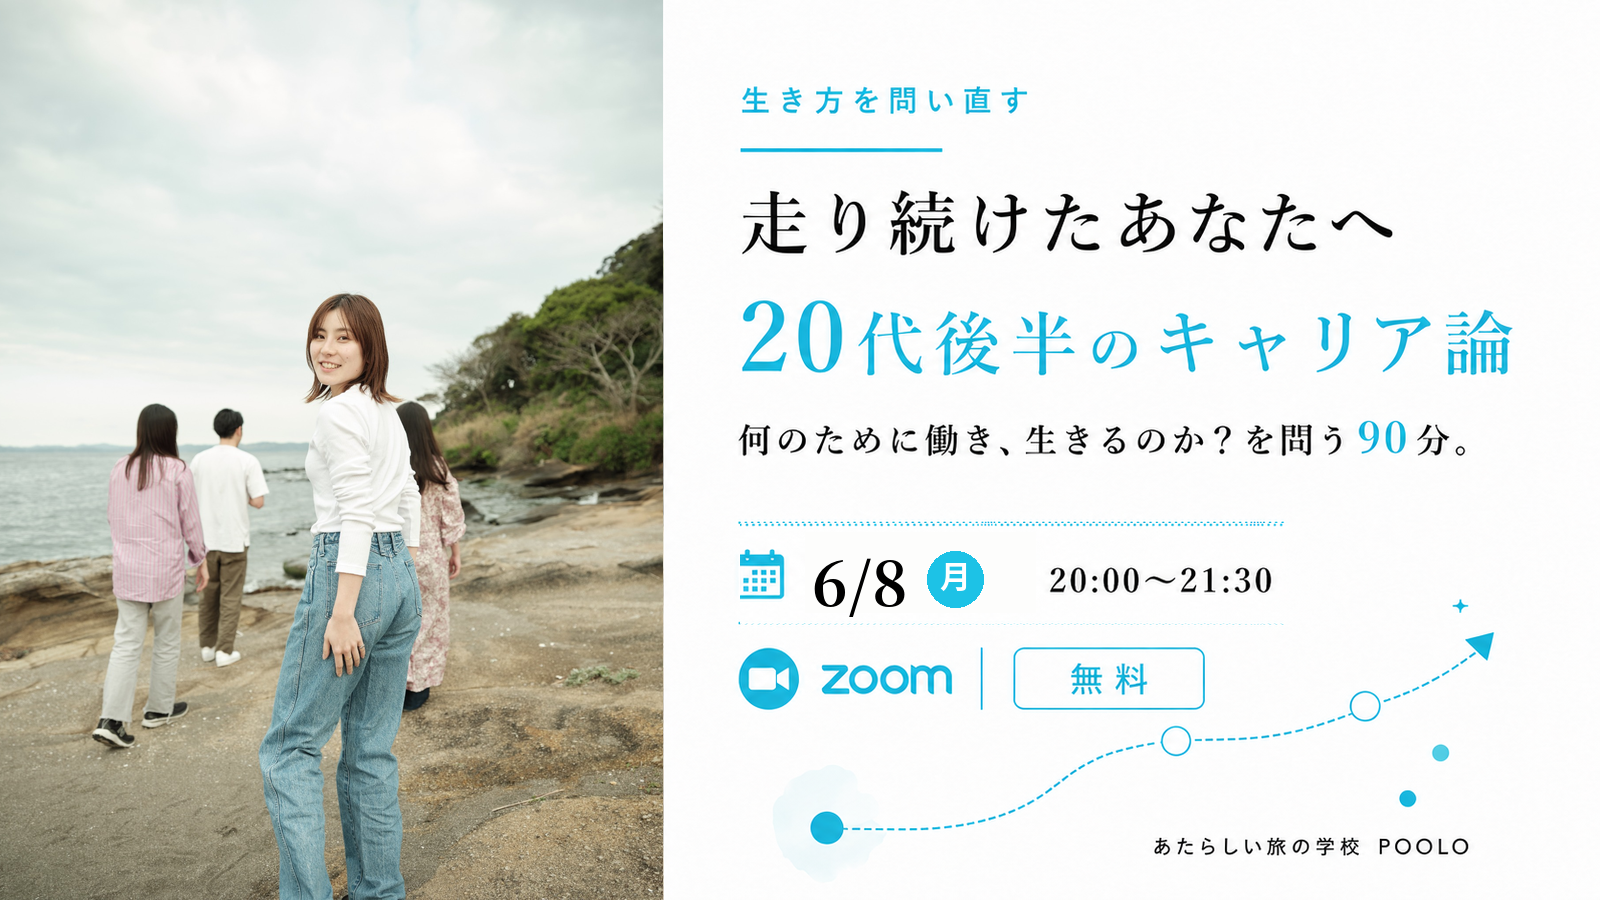
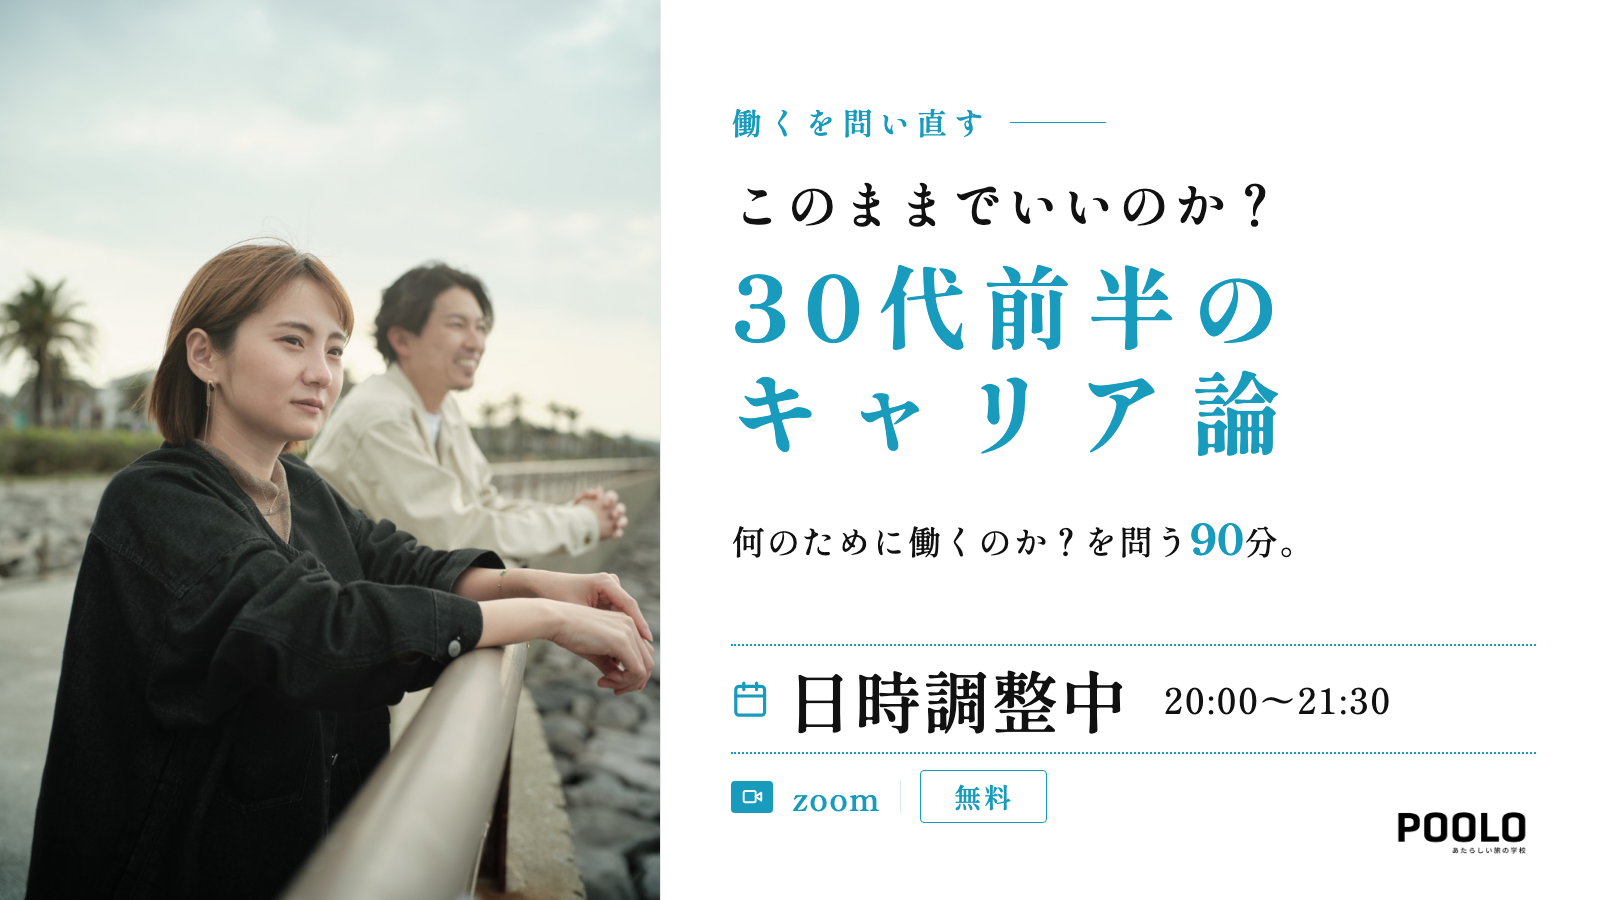
update: u35イベントのOGP（og-thumbnail.png）を30代前半デザインで再生成
og-source.html を Hero D ベースで書き直し、Chrome headless で 1600x900 にレンダリング。
- タグ「働くを問い直す」、タイトル「このままでいいのか？／30代前半のキャリア論」
- サブ「何のために働くのか？を問う90分。」
- 写真 hero-photo-01_567.jpg、ロゴ poolo_logo03.png
- 日時は「日時調整中」のプレースホルダー（日時確定後に再生成）

og-square.png / og-story.png（Instagram用）は後日対応。

diff --git a/event-u35-v01-tbd/og-source.html b/event-u35-v01-tbd/og-source.html
@@ -2,118 +2,209 @@
 <html lang="ja">
 <head>
 <meta charset="UTF-8">
-<title>OG Thumbnail A — 3行・キーワード強調</title>
-<link href="https://fonts.googleapis.com/css2?family=Cormorant+Garamond:ital,wght@0,300;0,400;0,500;0,600;1,300;1,400;1,500&family=Noto+Sans+JP:wght@300;400;500;600;700&family=Shippori+Mincho+B1:wght@400;500;600;700&display=swap" rel="stylesheet">
+<title>OGP — u35</title>
+<link rel="preconnect" href="https://fonts.googleapis.com">
+<link rel="preconnect" href="https://fonts.gstatic.com" crossorigin>
+<link href="https://fonts.googleapis.com/css2?family=Noto+Sans+JP:wght@300;400;500;600;700;800&family=Shippori+Mincho+B1:wght@400;500;600;700;800&display=swap" rel="stylesheet">
 <style>
   * { margin: 0; padding: 0; box-sizing: border-box; }
   html, body {
-    width: 1200px; height: 630px;
-    background: #FFFCF6;
-    font-family: 'Shippori Mincho B1', serif;
+    width: 1600px;
+    height: 900px;
+    background: #FFFFFF;
     overflow: hidden;
   }
-  .hero {
-    width: 1200px; height: 630px;
-    display: grid;
-    grid-template-columns: 5fr 6fr;
-  }
-  .photo, .content { height: 630px; }
-  .photo {
-    background-image: url('images/01_542.jpg');
-    background-size: cover;
-    background-position: center bottom;
-    filter: saturate(0.92) sepia(0.06) brightness(1.02);
-  }
-  .content {
-    background: #FFFCF6;
+  .hd {
     position: relative;
+    width: 1600px;
+    height: 900px;
+    background: #FFFFFF;
+    overflow: hidden;
+    display: grid;
+    grid-template-columns: 41.25% 58.75%;
+    container-type: inline-size;
   }
-  .tag-pos { position: absolute; top: 60px; left: 60px; right: 60px; }
-  .main-block { position: absolute; top: 50%; left: 60px; right: 60px; transform: translateY(-50%); }
-  .date-pos { position: absolute; bottom: 80px; left: 60px; right: 60px; }
-  .vertical {
-    position: absolute; right: 20px; top: 0; bottom: 0;
-    writing-mode: vertical-rl;
-    font-family: 'Cormorant Garamond', serif;
-    font-size: 22px; letter-spacing: 0.4em;
-    color: rgba(45,62,54,0.09);
-    font-weight: 700; font-style: italic;
-    display: flex; align-items: center;
-    text-transform: uppercase;
+  .hd-photo {
+    background-image: url('images/hero-photo-01_567.jpg');
+    background-size: cover;
+    background-position: 35% 35%;
   }
-  .tag {
-    background: #1B99B7; color: #fff;
-    padding: 10px 22px;
-    font-size: 16px; font-weight: 500; letter-spacing: 0.12em;
-    border-radius: 2px;
+  .hd-content {
+    position: relative;
+    padding: 4cqi 4cqi 3cqi 4.4cqi;
+    display: grid;
+    grid-template-rows: 7fr 3fr;
+    background: #FFFFFF;
+    border-left: 1px solid #E8E8E8;
+  }
+  .hd-main-copy {
+    display: flex;
+    flex-direction: column;
+    justify-content: center;
+    gap: 2.4cqi;
+  }
+  .hd-tag-row { display: flex; align-items: center; gap: 1.2cqi; }
+  .hd-tag {
     font-family: 'Shippori Mincho B1', serif;
-  }
-  .title-lead {
-    font-size: 24px; font-weight: 400;
-    letter-spacing: 0.08em; line-height: 1.6;
-    margin-bottom: 18px; color: #2D3E36;
-  }
-  .title {
-    font-family: 'Shippori Mincho B1', serif;
-    color: #2D3E36;
-  }
-  .title .row-mid {
-    display: block;
-    font-size: 38px; font-weight: 500;
-    letter-spacing: 0.06em; line-height: 1.45;
-    margin-bottom: 14px;
-  }
-  .title .row-main {
-    display: flex; align-items: baseline;
-    gap: 12px;
+    font-size: 1.9cqi;
+    letter-spacing: 0.22em;
+    font-weight: 600;
+    color: #189BBC;
     line-height: 1;
   }
-  .title .em {
-    font-size: 78px; font-weight: 600;
-    color: #1B99B7;
+  .hd-tag-line { flex: 0 0 auto; width: 6cqi; height: 1px; background: #189BBC; }
+  .hd-title {
+    font-family: 'Shippori Mincho B1', serif;
+    line-height: 1.08;
+    width: max-content;
+  }
+  .hd-title-line {
+    display: block;
+    text-align: justify;
+    text-align-last: justify;
+    text-justify: inter-character;
+  }
+  .hd-title-row1 {
+    font-size: 3.2cqi;
+    font-weight: 600;
+    color: #111111;
+    letter-spacing: 0.08em;
+    margin-bottom: 0.4em;
+    white-space: nowrap;
+  }
+  .hd-title-row2 {
+    font-size: 5.6cqi;
+    font-weight: 800;
+    color: #189BBC;
     letter-spacing: 0.04em;
+    line-height: 1.18;
   }
-  .title .suffix {
-    font-size: 36px; font-weight: 500;
-    color: #4A5A52;
-    letter-spacing: 0.06em;
+  .hd-sub {
+    font-family: 'Shippori Mincho B1', serif;
+    font-size: 2.1cqi;
+    color: #111111;
+    letter-spacing: 0.05em;
+    line-height: 1.7;
+    font-weight: 500;
   }
-  .date {
-    padding: 14px 0;
-    border-top: 2px solid #1B99B7;
-    border-bottom: 2px solid #1B99B7;
-    font-size: 19px; font-weight: 600;
-    letter-spacing: 0.04em; color: #2D3E36;
-    display: flex; align-items: baseline; gap: 12px;
-    flex-wrap: nowrap; white-space: nowrap;
+  .hd-sub-accent {
+    color: #189BBC;
+    font-weight: 800;
+    font-family: 'Shippori Mincho B1', serif;
+    font-size: 1.25em;
+    letter-spacing: 0;
   }
-  .date .small { font-size: 13px; color: #5A5A5A; font-weight: 500; }
-  .date .place { font-size: 15px; color: #2A2A2A; font-weight: 500; margin-left: 4px; }
+  .hd-date-zoom {
+    display: flex;
+    flex-direction: column;
+    justify-content: center;
+    gap: 1cqi;
+  }
+  .hd-date-band {
+    position: relative;
+    padding: 1.2cqi 0;
+    border-top: 2px dotted #189BBC;
+    border-bottom: 2px dotted #189BBC;
+  }
+  .hd-date-row {
+    display: flex;
+    align-items: center;
+    gap: 1cqi;
+    font-family: 'Shippori Mincho B1', serif;
+  }
+  .hd-date-cal { width: 2.4cqi; height: 2.4cqi; color: #189BBC; flex: 0 0 auto; }
+  .hd-date-cal svg { width: 100%; height: 100%; display: block; }
+  .hd-date-main {
+    font-family: 'Shippori Mincho B1', serif;
+    font-size: 4.2cqi;
+    font-weight: 600;
+    color: #111111;
+    letter-spacing: 0.02em;
+    line-height: 1;
+  }
+  .hd-date-dow {
+    width: 2.4cqi; height: 2.4cqi;
+    background: #189BBC; color: #fff; border-radius: 50%;
+    display: inline-flex; align-items: center; justify-content: center;
+    font-family: 'Shippori Mincho B1', serif;
+    font-size: 1.4cqi; font-weight: 700; line-height: 1;
+    margin-left: -0.1cqi;
+  }
+  .hd-date-time {
+    margin-left: 0.6cqi;
+    font-family: 'Shippori Mincho B1', serif;
+    font-size: 2.2cqi; font-weight: 500; color: #111111;
+    letter-spacing: 0.06em; line-height: 1;
+  }
+  .hd-zoom-row {
+    display: flex; align-items: center; gap: 1.2cqi;
+    font-family: 'Shippori Mincho B1', serif; color: #111111;
+  }
+  .hd-zoom-icon {
+    width: 2.6cqi; height: 2cqi;
+    background: #189BBC; border-radius: 4px;
+    display: inline-flex; align-items: center; justify-content: center;
+    color: #fff;
+  }
+  .hd-zoom-icon svg { width: 60%; height: 60%; display: block; }
+  .hd-zoom-label {
+    font-family: 'Shippori Mincho B1', serif;
+    font-size: 2cqi; font-weight: 600; color: #189BBC; letter-spacing: 0.04em;
+  }
+  .hd-zoom-divider { width: 1px; height: 2cqi; background: #D6E9EF; }
+  .hd-free-pill {
+    font-family: 'Shippori Mincho B1', serif;
+    font-size: 1.7cqi; font-weight: 600; color: #189BBC;
+    border: 1.5px solid #189BBC; border-radius: 4px;
+    padding: 0.45em 1.2em; letter-spacing: 0.1em; line-height: 1;
+  }
+  .hd-brand-logo {
+    position: absolute;
+    bottom: 2.5cqi;
+    right: 4.5cqi;
+    height: 3.4cqi;
+    width: auto;
+    display: block;
+  }
 </style>
 </head>
 <body>
-  <div class="hero">
-    <div class="photo"></div>
-    <div class="content">
-      <div class="vertical">ONLINE DIALOGUE vol.01</div>
-      <div class="tag-pos"><span class="tag">30代の生き方シリーズvol.01</span></div>
-      <div class="main-block">
-        <p class="title-lead">自分自身が納得できる、</p>
-        <h1 class="title">
-          <span class="row-mid">30代の生き方を</span>
-          <span class="row-main">
-            <span class="em">問い直す</span><span class="suffix">90分</span>
-          </span>
+  <section class="hd">
+    <div class="hd-photo" role="img" aria-label="海辺で物思いにふける30代前半の二人"></div>
+    <div class="hd-content">
+      <div class="hd-main-copy">
+        <div class="hd-tag-row">
+          <span class="hd-tag">働くを問い直す</span>
+          <span class="hd-tag-line" aria-hidden="true"></span>
+        </div>
+        <h1 class="hd-title">
+          <span class="hd-title-line hd-title-row1">このままでいいのか？</span>
+          <span class="hd-title-line hd-title-row2">30代前半の</span>
+          <span class="hd-title-line hd-title-row2">キャリア論</span>
         </h1>
+        <p class="hd-sub">何のために働くのか？を問う<span class="hd-sub-accent">90</span>分。</p>
       </div>
-      <div class="date-pos">
-        <div class="date">
-          <span>5/25 <span class="small">(月)</span></span>
-          <span>20:00〜21:30</span>
-          <span class="place">@Zoom</span>
+      <div class="hd-date-zoom">
+        <div class="hd-date-band">
+          <div class="hd-date-row">
+            <span class="hd-date-cal" aria-hidden="true">
+              <svg viewBox="0 0 24 24" fill="none" stroke="currentColor" stroke-width="2" stroke-linecap="round" stroke-linejoin="round"><rect x="3" y="4" width="18" height="18" rx="2"/><line x1="16" y1="2" x2="16" y2="6"/><line x1="8" y1="2" x2="8" y2="6"/><line x1="3" y1="10" x2="21" y2="10"/></svg>
+            </span>
+            <span class="hd-date-main">日時調整中</span>
+            <span class="hd-date-time" style="margin-left: 1.2cqi;">20:00〜21:30</span>
+          </div>
+        </div>
+        <div class="hd-zoom-row">
+          <span class="hd-zoom-icon" aria-hidden="true">
+            <svg viewBox="0 0 24 24" fill="none" stroke="currentColor" stroke-width="2.4" stroke-linecap="round" stroke-linejoin="round"><polygon points="23 7 16 12 23 17 23 7"/><rect x="1" y="5" width="15" height="14" rx="2" ry="2"/></svg>
+          </span>
+          <span class="hd-zoom-label">zoom</span>
+          <span class="hd-zoom-divider" aria-hidden="true"></span>
+          <span class="hd-free-pill">無料</span>
         </div>
       </div>
+      <img class="hd-brand-logo" src="images/poolo_logo03.png" alt="あたらしい旅の学校 POOLO">
     </div>
-  </div>
+  </section>
 </body>
 </html>